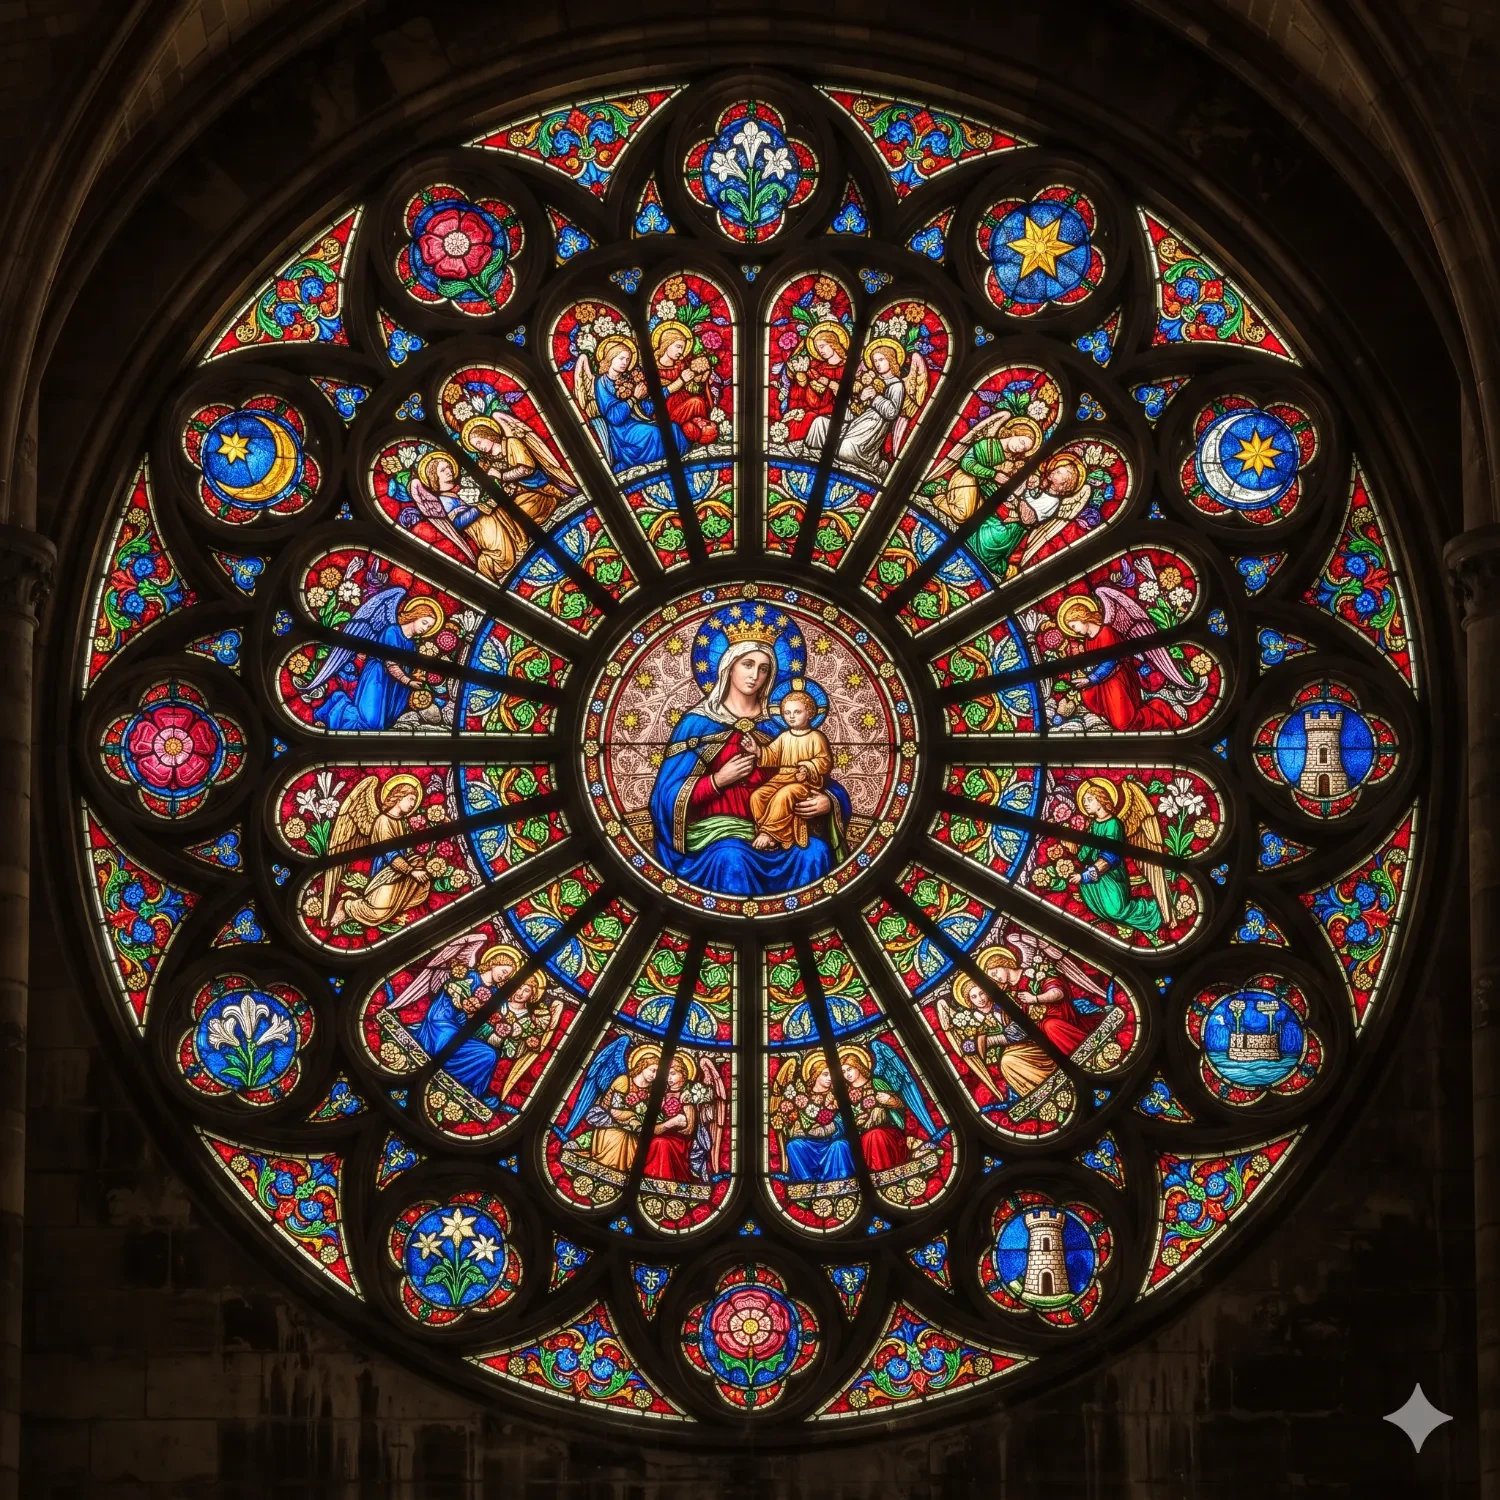
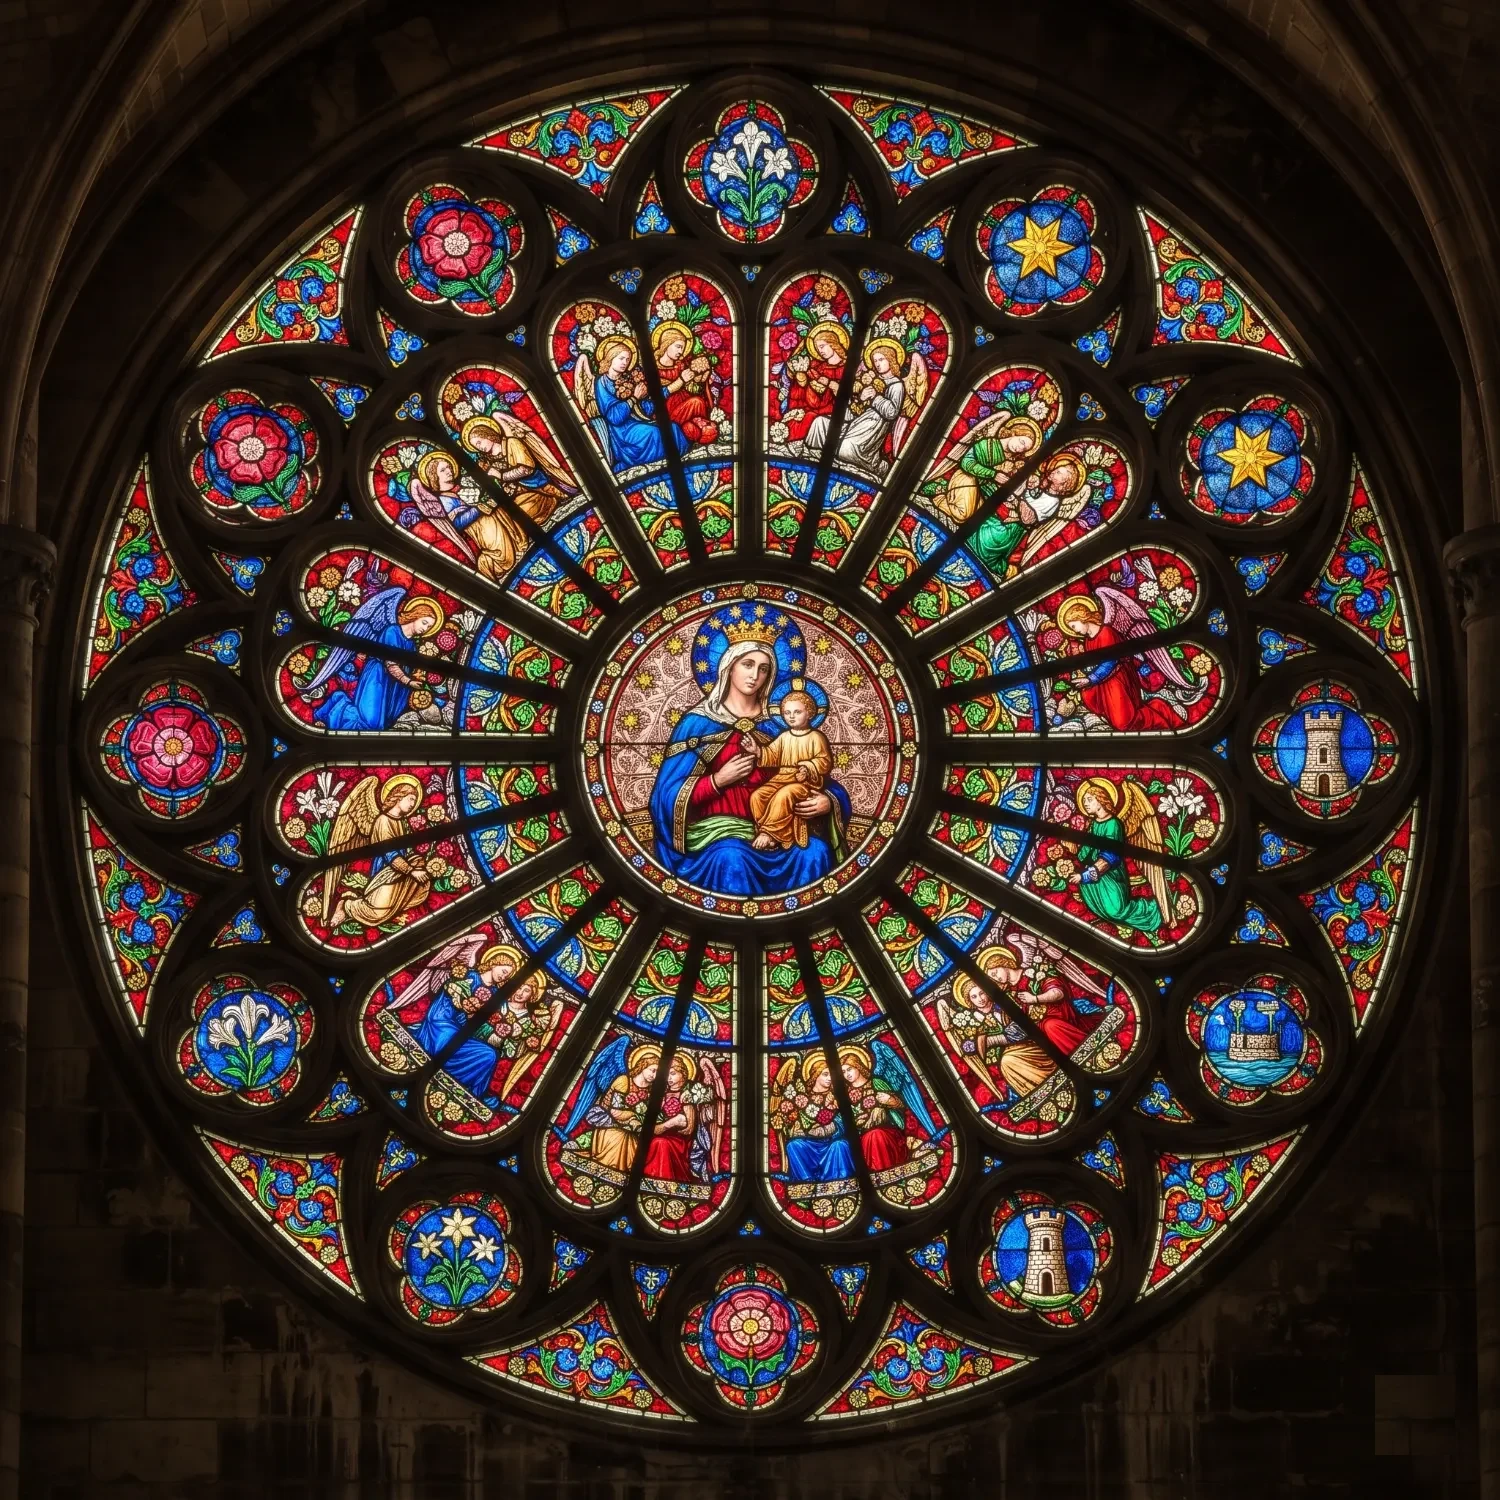
빛의 성당 창: 불경 검수 반영(장미창 초승달 원창 교체·표식 제거, 십자가 명패 글자 흉내 지움)
Fable 검수 2개가 찾은 것을 메인이 확대해 확인했다. 장미창의 초승달+별 원창 2곳은 다른 종교 상징으로
읽힐 수 있어 같은 창의 장미·별 원창으로 바꾸고, 다시 받을 창 6장과 남은 작은 흠을 README에 적었다.

Claude-Session: https://claude.ai/code/session_01LoBc5rivjACVYSjDZ4hSoq

Changed region(s): [[0.7667, 0.2453, 0.8893, 0.368], [0.1227, 0.2453, 0.2147, 0.368], [0.92, 0.92, 0.9813, 0.9813]]

diff --git a/art/light_cathedral/README.md b/art/light_cathedral/README.md
@@ -21,3 +21,9 @@
 - `high_altar.webp` — 금빛 꼬인 기둥 닫집·고딕 첨탑 장식벽(성인상 줄)·감실·붉은 융단 → 제단 주 참고
 - `organ_pulpit.webp` — 입구 위 파이프 오르간 발코니·장미창, 나선 계단 설교대
 - `baptistery_cloister.webp` — 팔각 세례당(조각 세례대·나무 덮개), 회랑 정원(성모상·분수)
+
+## 불경 검수 (2026-11-24, Fable 2개 검수 + 메인 확대 재확인)
+- 고친 것: `src/glass_rose_marian.webp` — 초승달+별 원창 2곳이 다른 종교 상징으로 읽힐 수 있어 같은 창의 장미·별 원창으로 바꿈, 오른쪽 아래 Gemini 표식 지움. `windows/sorrowful_5.webp` — 십자가 명패의 글자 흉내를 민무늬로.
+- 다시 받을 것(설계안 확정 뒤 창 비율에 맞춰 프롬프트): `joyful_5`(성전에서 찾으심인데 예수님이 어른·성모 요셉 없음), `luminous_2`(카나 혼인 잔치에 예수님 없음), `glorious_5`(관 씌우는 분 없음·기형 비둘기), `luminous_3`(군중 속 후광 쓴 반라 아이), `luminous_4`(임자 없는 큰 손), `glorious_4`(뭉개진 천사 얼굴).
+- 작아서 둔 것: `joyful_1` 벽감 작은 상·두루마리 글자 흉내, `glorious_4` 기둥머리 글자 흉내(각 20~40px).
+- 후진 창: 왼쪽 「약속」 첫 판(아기 예수 둘·알몸 인물·가짜 글자)은 쓰지 않음 — 다시 받는 중. 가운데는 통창 「묵주기도의 성모」로, 오른쪽은 갓 쓴 순교자 후광까지 넣어 다시 받는 중.
